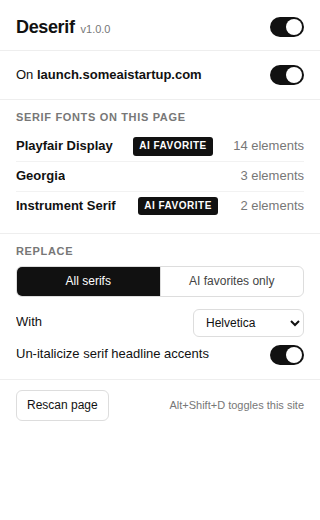
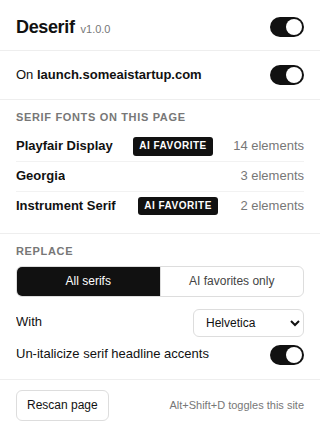
Landing page: trim popup screenshot

diff --git a/docs/index.html b/docs/index.html
@@ -190,7 +190,7 @@
 <div class="wrap">
   <section>
     <div class="shot">
-      <img src="assets/popup.png" alt="The Deserif popup listing Playfair Display, Georgia and Instrument Serif found on a page, with mode and replacement font controls" width="320" height="520">
+      <img src="assets/popup.png" alt="The Deserif popup listing Playfair Display, Georgia and Instrument Serif found on a page, with mode and replacement font controls" width="320">
       <div>
         <h2>The popup is also a font identifier</h2>
         <p>Click the icon on any page and it lists every serif family it found, how many elements use it, and which ones are the AI favorites. The badge on the icon shows the count at a glance.</p>
